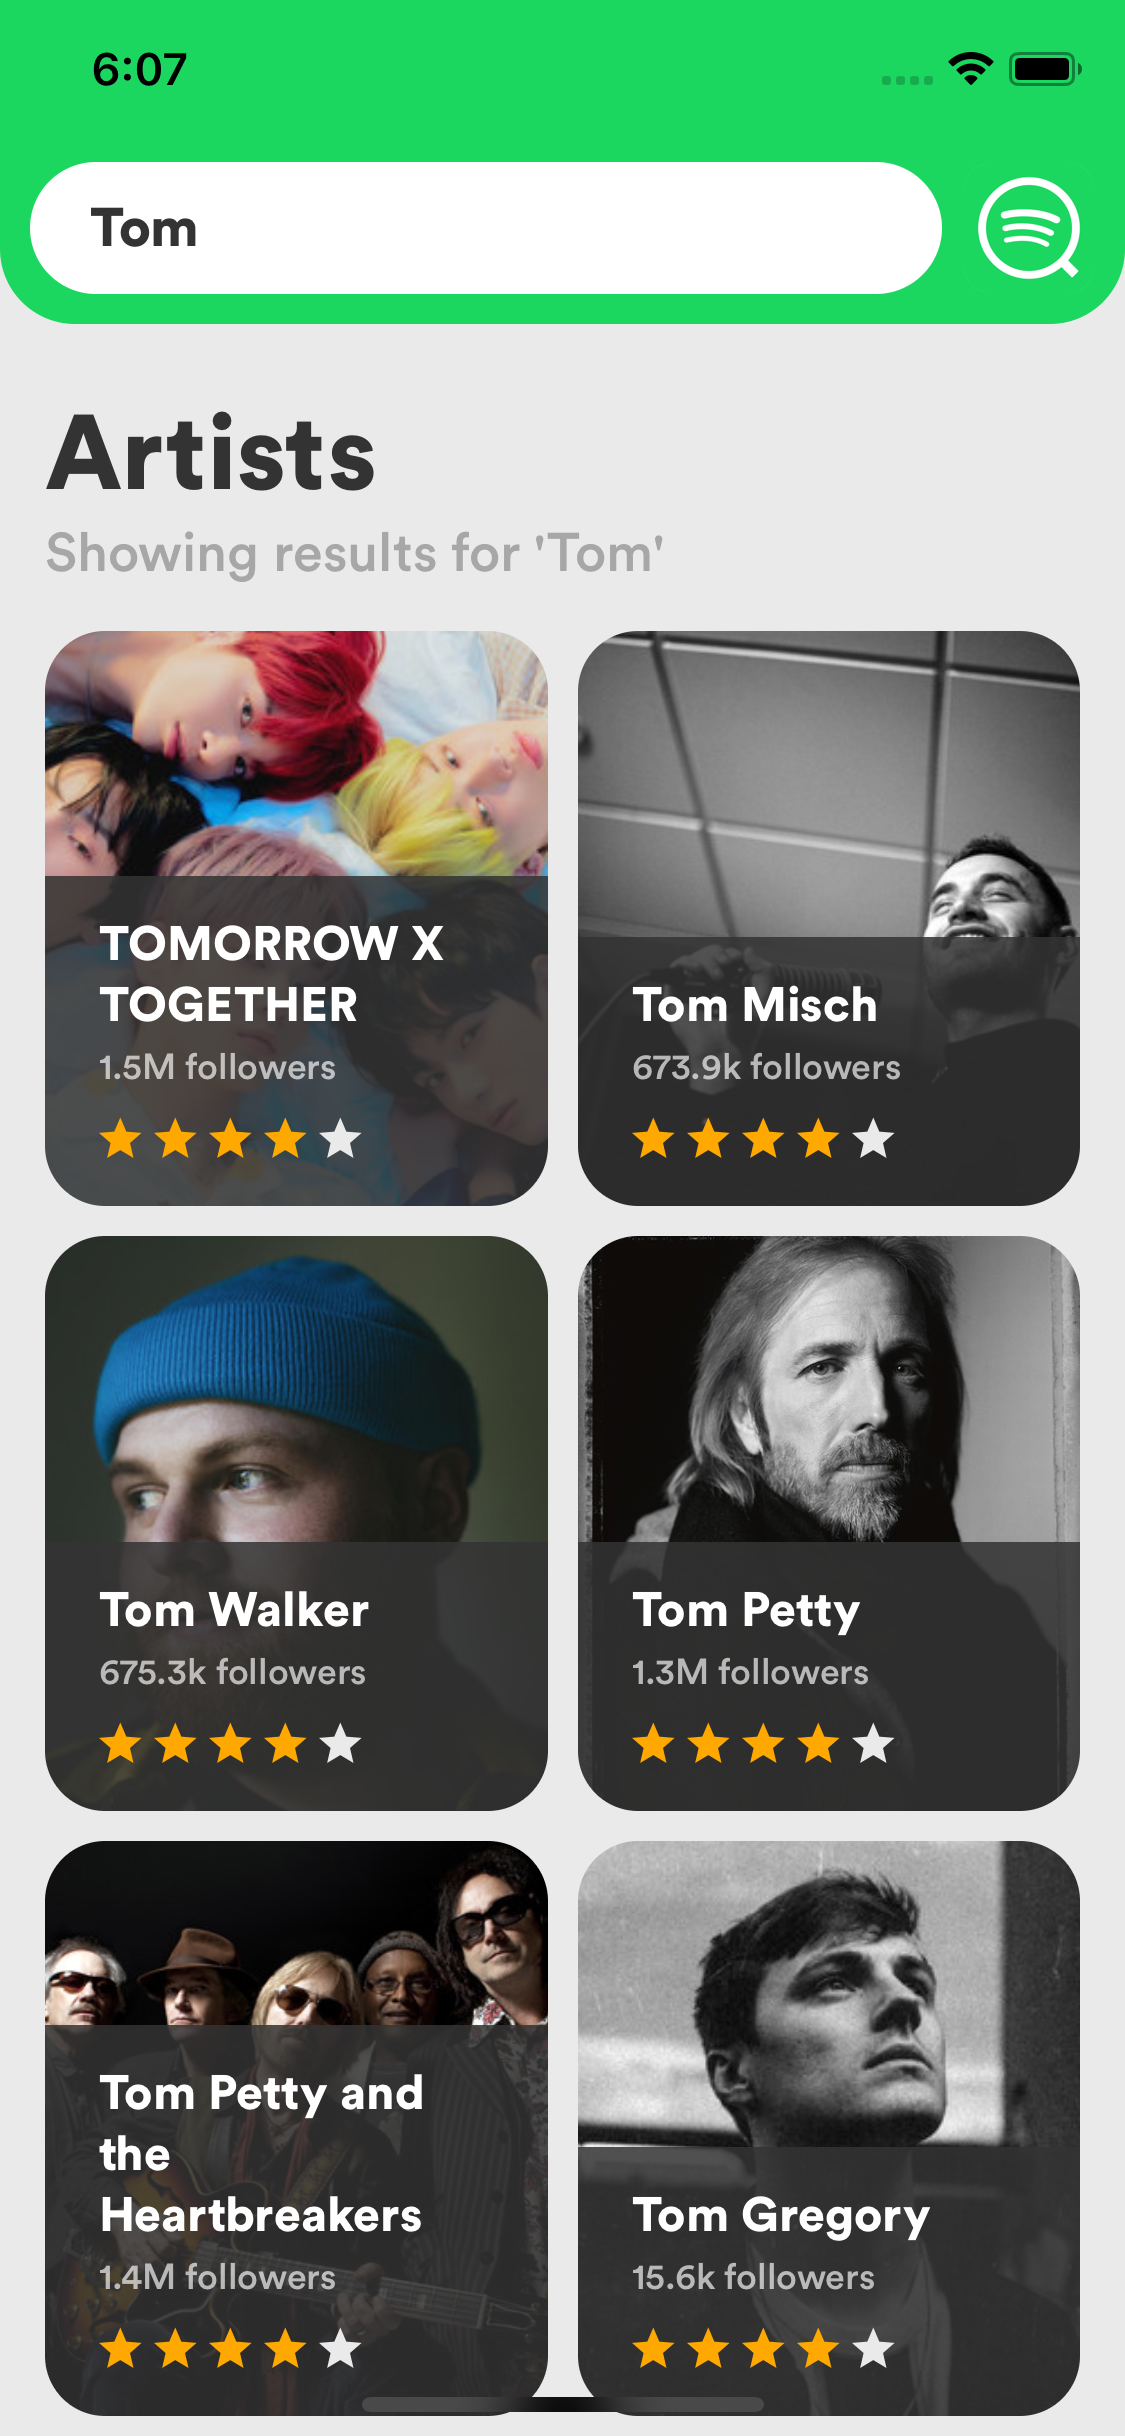
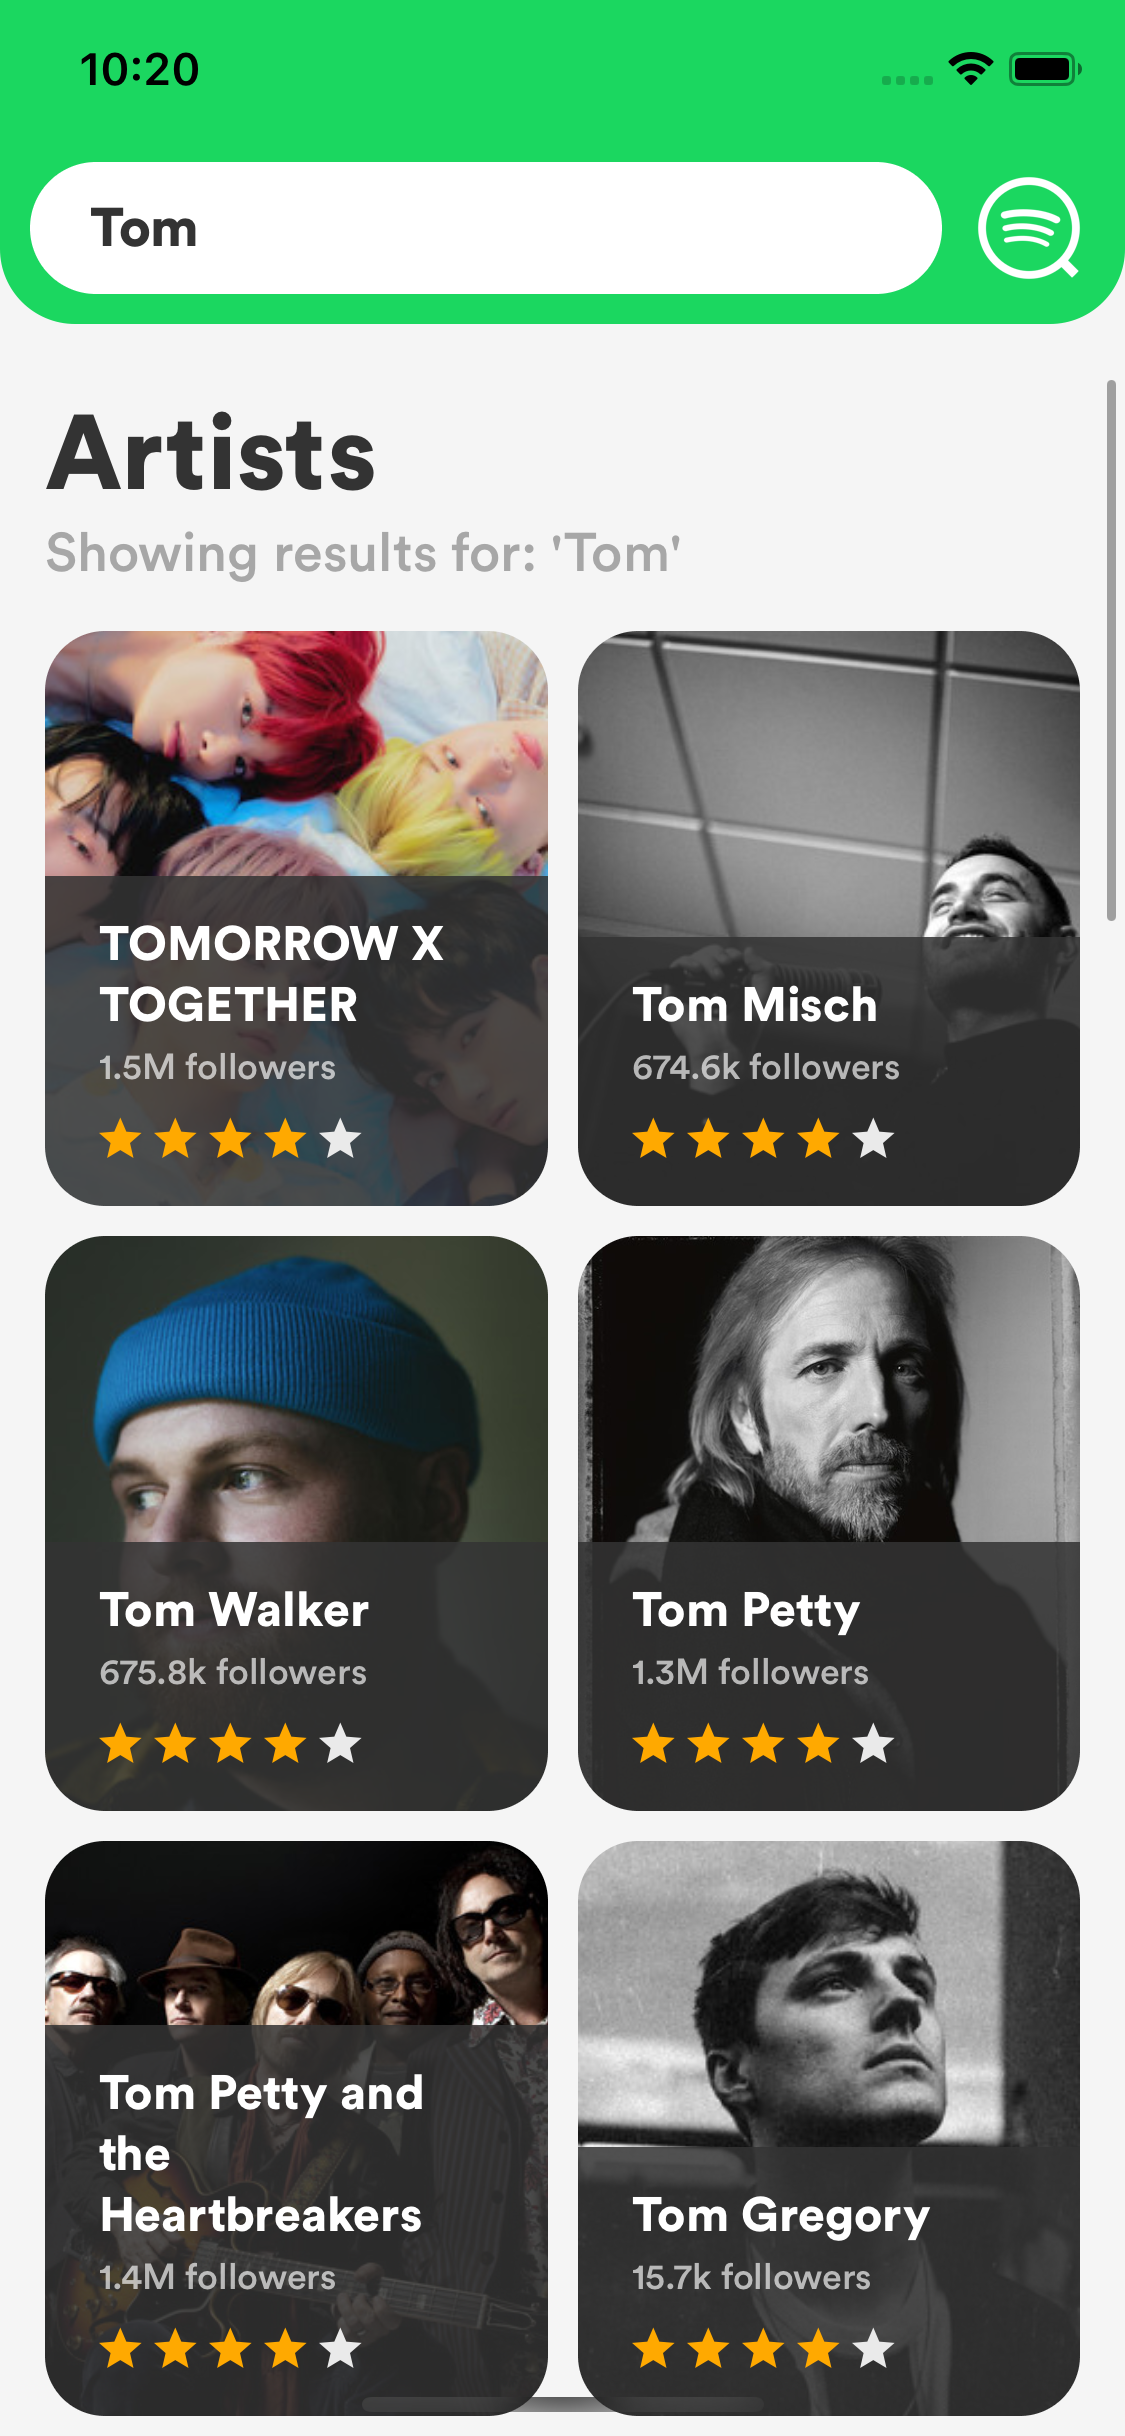
updated readme demo files

diff --git a/library/components/cards/ArtistCard/ArtistCard.js b/library/components/cards/ArtistCard/ArtistCard.js
@@ -16,7 +16,7 @@ const ArtistCard = (props) => {
                     // PlaceholderContent={<ActivityIndicator size='large' color={colors.lighter}/>}
                     />
                 <View style={styles.descriptionContainer}>
-                    <Text style={styles.nameLabel}>{props.name}</Text>
+                    <Text style={styles.nameLabel} numberOfLines={3}>{props.name}</Text>
                     <Text style={styles.descLabel}>{followersString(props.followers)}</Text>
                     <RatingStars rating={props.stars}/>
                 </View>

diff --git a/library/components/cards/AlbumCard/AlbumCard.js b/library/components/cards/AlbumCard/AlbumCard.js
@@ -13,7 +13,7 @@ const AlbumCard = (props) => {
                     source={{uri: props.img,}} 
                     PlaceholderContent={<ActivityIndicator size='large' color={colors.lighter}/>}/>
             </View>
-            <Text style={styles.titleLabel}>{props.name}</Text>
+            <Text style={styles.titleLabel} numberOfLines={3}>{props.name}</Text>
             <Text style={styles.subtitleLabel}>{props.date + ' · ' + tracksString(props.tracks)}</Text>
         </View>
     );

diff --git a/screens/albums/AlbumsPageStyles.js b/screens/albums/AlbumsPageStyles.js
@@ -5,7 +5,7 @@ import {Dimensions } from "react-native";
 export default StyleSheet.create({
     parentContainer: {
         flex: 1,
-        backgroundColor: colors.lighter
+        backgroundColor: colors.lightest
     },
     topContainer:{
         // backgroundColor: colors.white,

diff --git a/screens/search/SearchPageStyles.js b/screens/search/SearchPageStyles.js
@@ -5,7 +5,7 @@ import {Dimensions } from "react-native";
 export default StyleSheet.create({
     parentContainer: {
         flex: 1,
-        backgroundColor: colors.lighter
+        backgroundColor: colors.lightest
     },
     topContainer:{
         // backgroundColor: colors.white,
